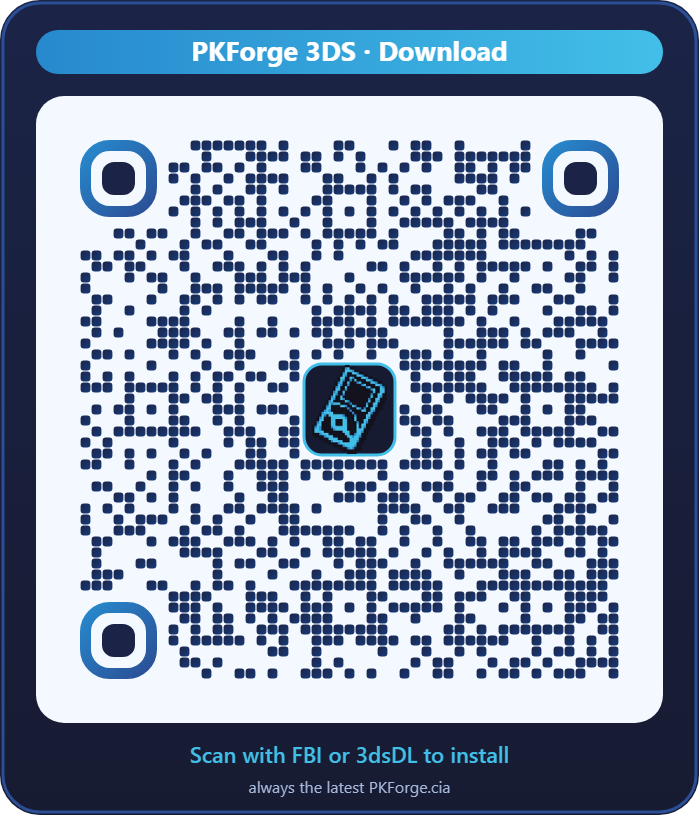
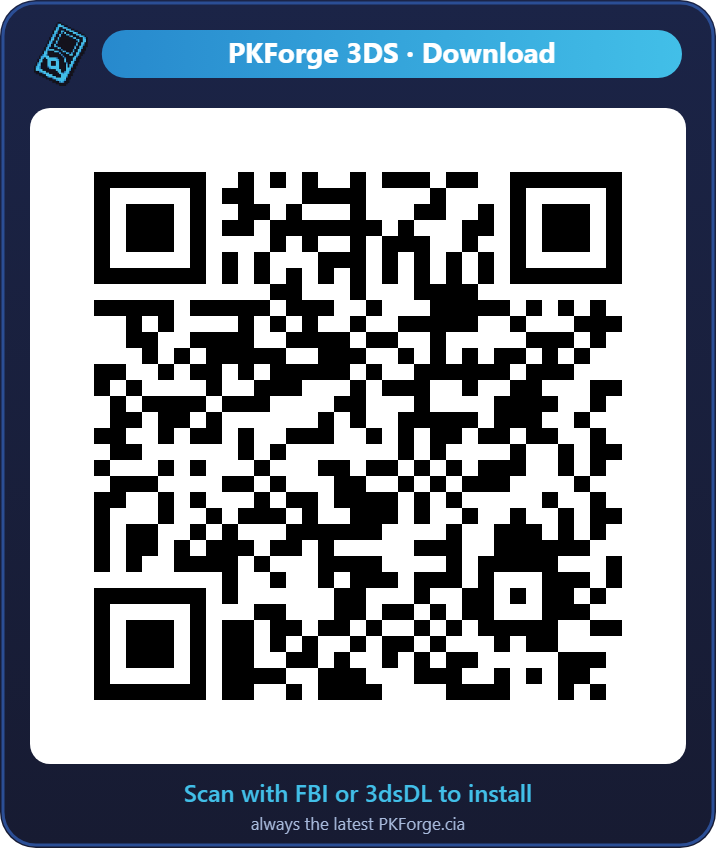
Download QR: simpler code the 3DS camera can read

diff --git a/README.md b/README.md
@@ -10,7 +10,7 @@ It opens on a title screen (PKForge's logo over the Android splash colour; touch
 
 ## 📲 Download straight to your 3DS
 
-<img src="docs/assets/download-qr.png" alt="QR code: latest PKForge.cia" width="240" align="right">
+<img src="docs/assets/download-qr.png" alt="QR code: latest PKForge.cia" width="320" align="right">
 
 Scan the QR code on the 3DS and it installs the newest `PKForge.cia`, no PC needed:
 
